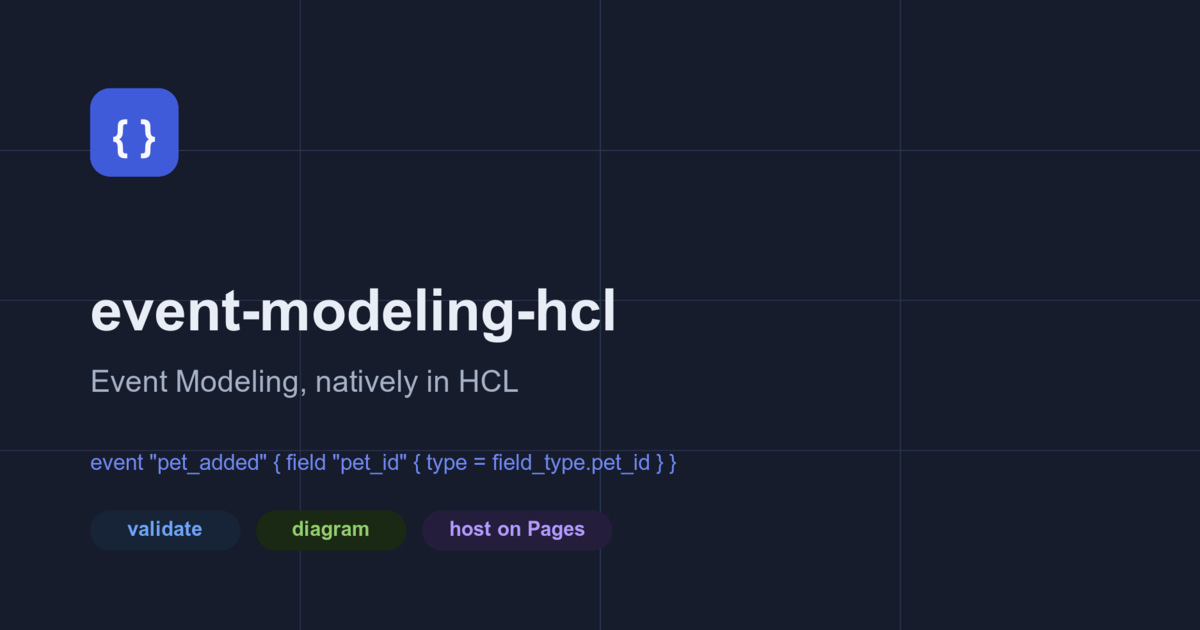
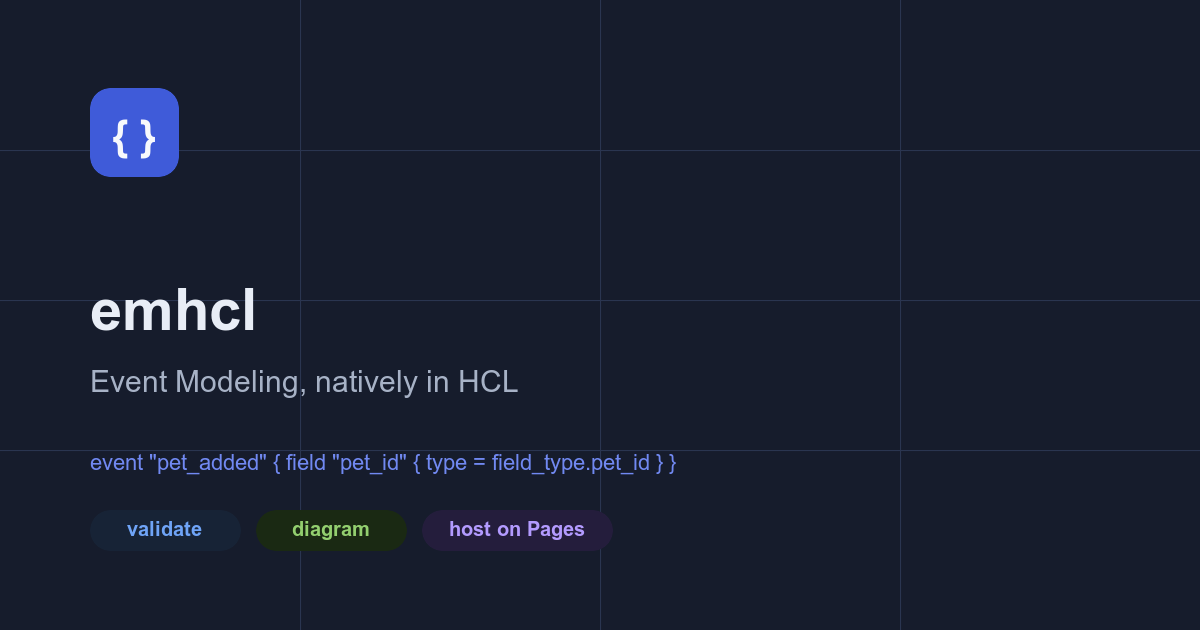
docs: publish emhcl v0.6.0

diff --git a/start.html b/start.html
@@ -11,9 +11,9 @@
   } catch (e) {}
 </script>
 <title>Get Started</title>
-<meta name="description" content="Install eventmodeling-hcl, write a first .em.hcl model, validate it, and render it to HTML.">
+<meta name="description" content="Install emhcl, write a first .em.hcl model, validate it, and render it to HTML.">
 <meta property="og:type" content="article">
-<meta property="og:title" content="Get Started — event-modeling-hcl">
+<meta property="og:title" content="Get Started — emhcl">
 <meta property="og:description" content="Install the CLI, write a first model, validate it, and render it to HTML.">
 <meta property="og:image" content="/assets/img/og-default.png">
 <meta name="twitter:card" content="summary_large_image">
@@ -43,26 +43,37 @@
     <div class="wrap prose">
 
       <h2>1 · Install the CLI</h2>
-      <p>Download a release archive, or build from source with Go 1.25 or newer.</p>
+      <p>Install emhcl for your user account with Go 1.25 or newer, or use a release archive.</p>
 
-      <h3>Option A: download a release</h3>
+      <h3>Option A: install with Go</h3>
+      <code-block lang="text">go install github.com/event-modeling-hcl/eventmodeling-hcl/cmd/emhcl@v0.6.0</code-block>
+      <p>Go writes the executable to <code>GOBIN</code>, or to <code>$(go env GOPATH)/bin</code> when <code>GOBIN</code> is unset. Add that directory to your <code>PATH</code> so <code>emhcl</code> is available from any directory:</p>
       <code-block lang="text">
-        curl -LO https://github.com/event-modeling-hcl/eventmodeling-hcl/releases/latest/download/eventmodeling-hcl_0.4.0_linux_amd64.tar.gz
-        curl -LO https://github.com/event-modeling-hcl/eventmodeling-hcl/releases/latest/download/checksums.txt
-        sha256sum -c checksums.txt
-        tar -xzf eventmodeling-hcl_0.4.0_linux_amd64.tar.gz
+        export PATH="$(go env GOPATH)/bin:$PATH"
+        emhcl version
       </code-block>
-      <p>Swap <code>linux_amd64</code> for <code>darwin_amd64</code>, <code>darwin_arm64</code>, <code>linux_arm64</code>, <code>windows_amd64</code>, or <code>windows_arm64</code> as needed, and the version number for whatever the <a href="https://github.com/event-modeling-hcl/eventmodeling-hcl/releases">releases page</a> currently lists. With GitHub CLI 2.49.0 or newer, you can also verify the archive was actually produced by this repository's release workflow:</p>
-      <code-block lang="text">gh attestation verify eventmodeling-hcl_0.4.0_linux_amd64.tar.gz --repo event-modeling-hcl/eventmodeling-hcl</code-block>
 
-      <h3>Option B: build from source</h3>
+      <h3>Option B: download a release</h3>
+      <code-block lang="text">
+        curl -LO https://github.com/event-modeling-hcl/eventmodeling-hcl/releases/download/v0.6.0/emhcl_0.6.0_linux_amd64.tar.gz
+        curl -LO https://github.com/event-modeling-hcl/eventmodeling-hcl/releases/download/v0.6.0/checksums.txt
+        grep ' emhcl_0.6.0_linux_amd64.tar.gz$' checksums.txt | sha256sum -c -
+        tar -xzf emhcl_0.6.0_linux_amd64.tar.gz
+      </code-block>
+      <p>Swap <code>linux_amd64</code> for <code>darwin_amd64</code>, <code>darwin_arm64</code>, <code>linux_arm64</code>, <code>windows_amd64</code>, or <code>windows_arm64</code> as needed. Each v0.6.0 archive also contains the deprecated <code>eventmodeling-hcl</code> compatibility executable. With GitHub CLI 2.49.0 or newer, verify the archive was produced by this repository's release workflow:</p>
+      <code-block lang="text">gh attestation verify emhcl_0.6.0_linux_amd64.tar.gz --repo event-modeling-hcl/eventmodeling-hcl</code-block>
+
+      <h3>Option C: build from source</h3>
       <code-block lang="text">
         git clone https://github.com/event-modeling-hcl/eventmodeling-hcl.git
         cd eventmodeling-hcl
-        go build -o eventmodeling-hcl ./cmd/eventmodeling-hcl
+        go build -o emhcl ./cmd/emhcl
       </code-block>
-      <p>Either way, confirm it runs:</p>
-      <code-block lang="text">./eventmodeling-hcl version</code-block>
+      <p>Confirm the command runs:</p>
+      <code-block lang="text">emhcl version</code-block>
+      <callout kind="warn">
+        <p><strong>Migrating an existing script?</strong> The old <code>eventmodeling-hcl</code> command remains available in v0.6.0 only. Change scripts to <code>emhcl</code> before the compatibility command is removed in v0.7.0.</p>
+      </callout>
 
     </div>
   </section>
@@ -112,13 +123,13 @@
       </code-block>
 
       <h2>3 · Validate it</h2>
-      <code-block lang="text">./eventmodeling-hcl validate pet.em.hcl</code-block>
+      <code-block lang="text">emhcl validate pet.em.hcl</code-block>
       <p>A valid document prints:</p>
       <code-block lang="text">pet.em.hcl valid</code-block>
       <p>A diagnostic instead would look like <code>file:line:column: Severity EMxxx: message</code>. See the <a href="/learn/quality.html">quality page</a> for what's a hard error versus a warning worth a second look.</p>
 
       <h2>4 · Render the canvas</h2>
-      <code-block lang="text">./eventmodeling-hcl diagram pet.em.hcl -o pet.html</code-block>
+      <code-block lang="text">emhcl diagram pet.em.hcl -o pet.html</code-block>
       <code-block lang="text">wrote pet.html</code-block>
       <p><code>pet.html</code> is a single self-contained file — no external dependencies, no build step. Open it directly in a browser.</p>
 

diff --git a/reference.html b/reference.html
@@ -11,9 +11,9 @@
   } catch (e) {}
 </script>
 <title>Reference</title>
-<meta name="description" content="The .em.hcl block and attribute cheat sheet, reference-form table, validation profiles, EMxxx diagnostic families, and eventmodeling-hcl CLI commands.">
+<meta name="description" content="The .em.hcl block and attribute cheat sheet, reference-form table, validation profiles, EMxxx diagnostic families, and emhcl CLI commands.">
 <meta property="og:type" content="article">
-<meta property="og:title" content="Reference — event-modeling-hcl">
+<meta property="og:title" content="Reference — emhcl">
 <meta property="og:description" content="The .em.hcl block/attribute cheat sheet and CLI command reference.">
 <meta property="og:image" content="/assets/img/og-default.png">
 <meta name="twitter:card" content="summary_large_image">
@@ -183,11 +183,11 @@
         <table>
           <thead><tr><th>Command</th><th>Does</th></tr></thead>
           <tbody>
-            <tr><td><code>eventmodeling-hcl validate &lt;model.em.hcl&gt;</code></td><td>Validates with the default <code>valid</code> profile</td></tr>
-            <tr><td><code>eventmodeling-hcl validate --profile &lt;workshop|valid|strict&gt; &lt;model.em.hcl&gt;</code></td><td>Validates with an explicit profile</td></tr>
-            <tr><td><code>eventmodeling-hcl diagram &lt;model.em.hcl&gt; -o &lt;file&gt;</code></td><td>Renders a self-contained interactive HTML canvas (or writes to stdout without <code>-o</code>)</td></tr>
-            <tr><td><code>eventmodeling-hcl fmt -w &lt;model.em.hcl&gt;</code></td><td>Canonicalizes whitespace and attribute order in place</td></tr>
-            <tr><td><code>eventmodeling-hcl version</code></td><td>Prints the installed version</td></tr>
+            <tr><td><code>emhcl validate &lt;model.em.hcl&gt;</code></td><td>Validates with the default <code>valid</code> profile</td></tr>
+            <tr><td><code>emhcl validate --profile &lt;workshop|valid|strict&gt; &lt;model.em.hcl&gt;</code></td><td>Validates with an explicit profile</td></tr>
+            <tr><td><code>emhcl diagram &lt;model.em.hcl&gt; -o &lt;file&gt;</code></td><td>Renders a self-contained interactive HTML canvas (or writes to stdout without <code>-o</code>)</td></tr>
+            <tr><td><code>emhcl fmt -w &lt;model.em.hcl&gt;</code></td><td>Canonicalizes whitespace and attribute order in place</td></tr>
+            <tr><td><code>emhcl version</code></td><td>Prints the installed version</td></tr>
           </tbody>
         </table>
       </div>

diff --git a/assets/site.js b/assets/site.js
@@ -41,7 +41,7 @@
   ];
 
   var LOGO_SVG =
-    '<svg viewBox="0 0 64 64" xmlns="http://www.w3.org/2000/svg" role="img" aria-label="event-modeling-hcl">' +
+    '<svg viewBox="0 0 64 64" xmlns="http://www.w3.org/2000/svg" role="img" aria-label="emhcl">' +
     '<rect width="64" height="64" rx="14" fill="var(--accent)"/>' +
     '<text x="32" y="42" text-anchor="middle" font-family="ui-monospace,SFMono-Regular,Menlo,monospace" ' +
     'font-size="28" font-weight="700" fill="#f7f9fc">{ }</text>' +
@@ -161,7 +161,7 @@
         '<a class="site-nav-brand" href="/">' +
         '<span class="site-nav-mark">' +
         LOGO_SVG +
-        '</span><span class="site-nav-brand-text">event-modeling-hcl</span></a>' +
+        '</span><span class="site-nav-brand-text">emhcl</span></a>' +
         '<button type="button" class="nav-toggle" aria-expanded="false" aria-controls="site-nav-links" aria-label="Menu">☰</button>' +
         '<ul class="site-nav-links" id="site-nav-links">' +
         links
@@ -196,7 +196,7 @@
         '<div class="site-footer-bar">' +
         "<span>© " +
         year +
-        ' event-modeling-hcl · Apache License 2.0 · built with plain HTML, CSS &amp; JS</span>' +
+        ' emhcl · Apache License 2.0 · built with plain HTML, CSS &amp; JS</span>' +
         '<ul class="site-footer-links">' +
         FOOTER_LINKS.map(function (l) {
           var ext = l.href.startsWith("http")

diff --git a/index.html b/index.html
@@ -11,7 +11,7 @@
   } catch (e) {}
 </script>
 <title>Event Modeling in HCL</title>
-<meta name="description" content="Keep an Event Model in git, validate it, and render it to HTML with eventmodeling-hcl.">
+<meta name="description" content="Keep an Event Model in git, validate it, and render it to HTML with emhcl.">
 <meta property="og:type" content="website">
 <meta property="og:title" content="Event Modeling in HCL">
 <meta property="og:description" content="Keep an Event Model in git, validate it, and render it to HTML.">
@@ -70,8 +70,8 @@
         </div>
       </div>
       <code-block lang="text">
-        eventmodeling-hcl validate model.em.hcl
-        eventmodeling-hcl diagram model.em.hcl -o model.html
+        emhcl validate model.em.hcl
+        emhcl diagram model.em.hcl -o model.html
       </code-block>
     </div>
   </section>
@@ -129,7 +129,7 @@
         </div>
         <div class="card">
           <h3>Project status</h3>
-          <p><strong>Status:</strong> experimental<br><strong>Current spec:</strong> v0.3.0<br><strong>CLI:</strong> v0.4.0</p>
+          <p><strong>Status:</strong> experimental<br><strong>Current spec:</strong> v0.3.0<br><strong>CLI:</strong> v0.6.0</p>
           <p>Syntax may still change before 1.0.</p>
         </div>
       </div>

diff --git a/examples/complete.html b/examples/complete.html
@@ -13,7 +13,7 @@
 <title>Complete reference</title>
 <meta name="description" content="Every supported .em.hcl construct in one file: all four workflow patterns, a team and an external system, a chapter, and an open hotspot.">
 <meta property="og:type" content="article">
-<meta property="og:title" content="Complete reference — event-modeling-hcl examples">
+<meta property="og:title" content="Complete reference — emhcl examples">
 <meta property="og:description" content="Every supported .em.hcl construct in one file: all four workflow patterns, a team and an external system, a chapter, and an open hotspot.">
 <meta property="og:image" content="/assets/img/og-default.png">
 <meta name="twitter:card" content="summary_large_image">
@@ -44,7 +44,7 @@
     <div class="wrap">
       <div class="section-head">
         <h2>The rendered canvas</h2>
-        <p>Generated with <code>eventmodeling-hcl diagram examples/complete.em.hcl</code>. Click a slice for its scenarios.</p>
+        <p>Generated with <code>emhcl diagram examples/complete.em.hcl</code>. Click a slice for its scenarios.</p>
       </div>
       <div class="canvas-embed tall">
         <iframe src="/examples/canvas/complete.html" loading="lazy" title="Complete reference interactive canvas"></iframe>

diff --git a/ai.html b/ai.html
@@ -50,7 +50,7 @@
       <div class="section-head"><h2>Works today</h2></div>
       <div class="loop-steps">
         <div class="card"><h3>1. Draft</h3><p>Describe the Events, actors, ownership, and workflow.</p></div>
-        <div class="card"><h3>2. Validate</h3><p>Run <code>eventmodeling-hcl validate</code>.</p></div>
+        <div class="card"><h3>2. Validate</h3><p>Run <code>emhcl validate</code>.</p></div>
         <div class="card"><h3>3. Fix</h3><p>Use the source position and <code>EMxxx</code> diagnostic.</p></div>
         <div class="card"><h3>4. Diagram</h3><p>Render the model and review its causal shape.</p></div>
         <div class="card"><h3>5. Review</h3><p>A person checks whether it describes the business.</p></div>
@@ -79,7 +79,7 @@
         </li>
         <li>
           <strong>Fix a validator error</strong>
-          <code-block lang="text">eventmodeling-hcl validate produced this diagnostic: {diagnostic}. Fix the model without changing the intended business behavior.</code-block>
+          <code-block lang="text">emhcl validate produced this diagnostic: {diagnostic}. Fix the model without changing the intended business behavior.</code-block>
         </li>
         <li>
           <strong>Implement one workflow</strong>

diff --git a/examples/course-subscriptions.html b/examples/course-subscriptions.html
@@ -13,7 +13,7 @@
 <title>Course subscriptions</title>
 <meta name="description" content="A .em.hcl model for registrar translation, course administration, and student course subscriptions.">
 <meta property="og:type" content="article">
-<meta property="og:title" content="Course subscriptions — event-modeling-hcl examples">
+<meta property="og:title" content="Course subscriptions — emhcl examples">
 <meta property="og:description" content="Registrar translation, course administration, and student subscriptions in one Event Model.">
 <meta property="og:image" content="/assets/img/og-default.png">
 <meta name="twitter:card" content="summary_large_image">
@@ -43,7 +43,7 @@
     <div class="wrap">
       <div class="section-head">
         <h2>The rendered canvas</h2>
-        <p>Generated with <code>eventmodeling-hcl diagram examples/course_subscriptions.em.hcl</code>. Click a slice for its scenarios.</p>
+        <p>Generated with <code>emhcl diagram examples/course_subscriptions.em.hcl</code>. Click a slice for its scenarios.</p>
       </div>
       <div class="canvas-embed tall">
         <iframe src="/examples/canvas/course_subscriptions.html" loading="lazy" title="Course subscriptions interactive canvas"></iframe>

diff --git a/examples/appointments-and-weather.html b/examples/appointments-and-weather.html
@@ -13,7 +13,7 @@
 <title>Appointments & weather</title>
 <meta name="description" content="All four Event Modeling patterns in an appointments-and-weather domain.">
 <meta property="og:type" content="article">
-<meta property="og:title" content="Appointments & weather — event-modeling-hcl examples">
+<meta property="og:title" content="Appointments & weather — emhcl examples">
 <meta property="og:description" content="All four Event Modeling patterns in an appointments-and-weather domain.">
 <meta property="og:image" content="/assets/img/og-default.png">
 <meta name="twitter:card" content="summary_large_image">
@@ -44,7 +44,7 @@
     <div class="wrap">
       <div class="section-head">
         <h2>The rendered canvas</h2>
-        <p>Generated with <code>eventmodeling-hcl diagram examples/appointment-weather-patterns.em.hcl</code>. Click a slice for its scenarios.</p>
+        <p>Generated with <code>emhcl diagram examples/appointment-weather-patterns.em.hcl</code>. Click a slice for its scenarios.</p>
       </div>
       <div class="canvas-embed tall">
         <iframe src="/examples/canvas/appointment-weather-patterns.html" loading="lazy" title="Appointments & weather interactive canvas"></iframe>

diff --git a/examples/pet-management.html b/examples/pet-management.html
@@ -13,7 +13,7 @@
 <title>Pet management</title>
 <meta name="description" content="Five pet-management workflows across three bounded contexts.">
 <meta property="og:type" content="article">
-<meta property="og:title" content="Pet management — event-modeling-hcl examples">
+<meta property="og:title" content="Pet management — emhcl examples">
 <meta property="og:description" content="Five pet-management workflows across three bounded contexts.">
 <meta property="og:image" content="/assets/img/og-default.png">
 <meta name="twitter:card" content="summary_large_image">
@@ -44,7 +44,7 @@
     <div class="wrap">
       <div class="section-head">
         <h2>The rendered canvas</h2>
-        <p>Generated with <code>eventmodeling-hcl diagram examples/pet-management-detailed.em.hcl</code>. Click a slice for its scenarios.</p>
+        <p>Generated with <code>emhcl diagram examples/pet-management-detailed.em.hcl</code>. Click a slice for its scenarios.</p>
       </div>
       <div class="canvas-embed tall">
         <iframe src="/examples/canvas/pet-management-detailed.html" loading="lazy" title="Pet management interactive canvas"></iframe>

diff --git a/examples/minimal.html b/examples/minimal.html
@@ -13,7 +13,7 @@
 <title>Minimal</title>
 <meta name="description" content="A small .em.hcl model with one bounded context, one Event, and one State Change workflow.">
 <meta property="og:type" content="article">
-<meta property="og:title" content="Minimal — event-modeling-hcl examples">
+<meta property="og:title" content="Minimal — emhcl examples">
 <meta property="og:description" content="One bounded context, one Event, and one State Change workflow.">
 <meta property="og:image" content="/assets/img/og-default.png">
 <meta name="twitter:card" content="summary_large_image">
@@ -44,7 +44,7 @@
     <div class="wrap">
       <div class="section-head">
         <h2>The rendered canvas</h2>
-        <p>Generated with <code>eventmodeling-hcl diagram examples/minimal.em.hcl</code>. Click a slice for its scenarios.</p>
+        <p>Generated with <code>emhcl diagram examples/minimal.em.hcl</code>. Click a slice for its scenarios.</p>
       </div>
       <div class="canvas-embed tall">
         <iframe src="/examples/canvas/minimal.html" loading="lazy" title="Minimal interactive canvas"></iframe>

diff --git a/playground/index.html b/playground/index.html
@@ -4,7 +4,7 @@
 <meta charset="utf-8">
 <meta name="viewport" content="width=device-width, initial-scale=1">
 <meta name="color-scheme" content="light dark">
-<title>Playground | eventmodeling-hcl</title>
+<title>Playground | emhcl</title>
 <meta name="description" content="Edit and render Event Modeling HCL in the browser.">
 <link rel="canonical" href="https://event-modeling-hcl.github.io/playground/">
 <link rel="icon" type="image/svg+xml" href="/assets/img/favicon.svg">
@@ -21,7 +21,7 @@ html,body{height:100%;overflow:hidden}body{display:flex;flex-direction:column;ba
 </head>
 <body>
 <header class="pg-appbar">
-  <a class="pg-brand" href="/"><code>{ }</code> eventmodeling-hcl</a>
+  <a class="pg-brand" href="/"><code>{ }</code> emhcl</a>
   <strong>Playground</strong>
   <span class="pg-spacer"></span>
   <span id="status" class="pg-status" role="status">Loading...</span>

diff --git a/learn/quality.html b/learn/quality.html
@@ -11,7 +11,7 @@
   } catch (e) {}
 </script>
 <title>Quality: Smells, Errors, Warnings</title>
-<meta name="description" content="The four Event Modeling anti-patterns, what the eventmodeling-hcl validator rejects outright, what it leaves to human judgment, and how validation profiles change the boundary.">
+<meta name="description" content="The four Event Modeling anti-patterns, what the emhcl validator rejects outright, what it leaves to human judgment, and how validation profiles change the boundary.">
 <meta property="og:type" content="article">
 <meta property="og:title" content="Quality: Smells, Errors, Warnings — Learn Event Modeling HCL">
 <meta property="og:description" content="The four anti-patterns, hard errors vs. judgment warnings, and validation profiles — with a validity-spotting drill.">
